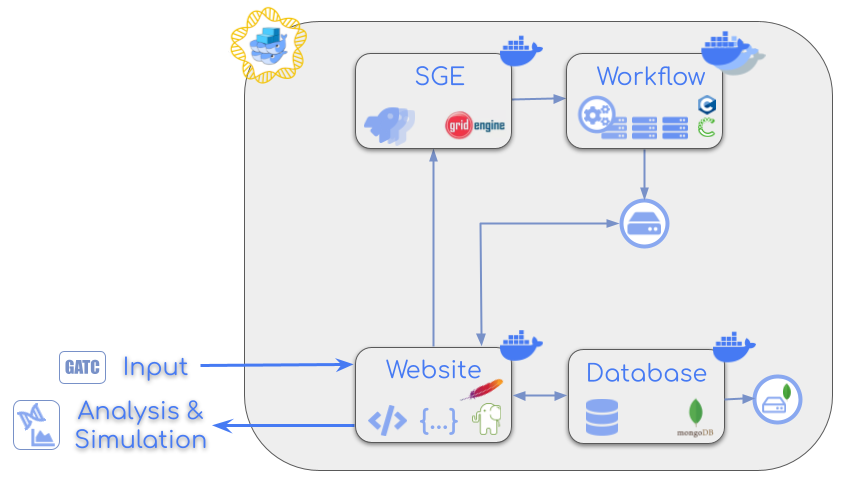
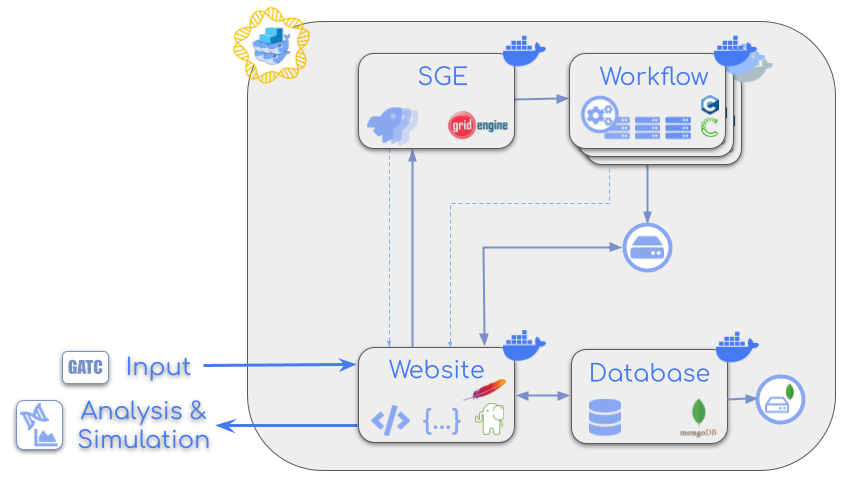
README

diff --git a/README.md b/README.md
@@ -7,6 +7,8 @@ Schema of **CGeNArate container** web services. Each box in the schema is a serv
 
 <div align="center"><img src="schema.png" /></div>
 
+This bunch of **services** aim to show in an intuitive environment the simulation of both **unconstrained** and **constrained** DNA, such as **circular DNA** and **protein-DNA** simulations. The simulations are obtained using [**CGeNArate**](https://academic.oup.com/nar/article/52/12/6791/7685160), a new model for molecular dynamics simulations for **B-DNA** in the context of biotechnological or **chromatin** studies.
+
 ## Services description
 
 ### Apache / Website
@@ -65,7 +67,7 @@ services:
     volumes:
       - ${WEBSITE_DATA_VOLUME_PATH}:/data   # path where the data generated by the website will be stored
       - ${WEBSITE_VOLUME_PATH}:/var/www/html   # path for the website code
-      - ${SCRIPTS_VOLUME_PATH}:/scripts   # path where the scripts used by the website will be stored
+      - "${SCRIPTS_VOLUME_PATH}/MCDNA:/scripts/MCDNA"  # path where the scripts used by the website will be stored
       - ./website/act_qmaster:/var/lib/gridengine/default/common/act_qmaster
       - ${SSH_KEYS_VOLUME_PATH}:/keys
     # networks:
@@ -93,12 +95,14 @@ services:
 
   workflow:
     image: workflow_image   # name of workflow image
+    # platform: linux/amd64
     build:
       context: ./workflow  # folder to search Dockerfile for this image
     # networks:
     #   - dbnet
     volumes:
       - workflow_data:/mnt
+      - workflow_scripts:/app/Scripts
     deploy:
       replicas: ${WORKFLOW_REPLICAS}  # Ensure this service is not deployed by default as it is a one-time task
       resources:
@@ -133,6 +137,7 @@ services:
       - "${SGE_PORT}:${SGE_PORT}"
     volumes:
       - workflow_data:/data
+      - workflow_scripts:/scripts
       - /var/run/docker.sock:/var/run/docker.sock
       - ${SSH_KEYS_VOLUME_PATH}:/keys
     devices:
@@ -213,6 +218,8 @@ services:
 
 volumes:
   workflow_data:
+    external: true
+  workflow_scripts:
     external: true
 
 networks:
@@ -444,8 +451,8 @@ docker run --rm -v workflow_data:/mnt workflow_image ls -la /mnt
 
 #### Execute workflow
 
-Take into account that, for running properly the workflow, a **.sh file** with the **correct format** must be created beforehand in the folder defined in 
-**WEBSITE_DATA_VOLUME_PATH** in the [`.env`](#env-file) file. This template can be taken as an example for creating this launch.sh file:
+Take into account that, for running properly the workflow, a **launch.sh file** with the **correct format** must be created beforehand in the folder defined in 
+**WEBSITE_DATA_VOLUME_PATH** in the [`.env`](#env-file) file. This template can be taken as an example for creating this **launch.sh file**:
 
 ```sh
 #!/bin/csh
@@ -467,7 +474,7 @@ And **inputSequence.txt** is the **input sequence** in text format and it must b
 GATTACATACATACAGATTACATACATACAGATTACATACATACAGATTACATACATACAGATTACATACATACAGATTACATACATACA
 ```
 
-Then, once both files **.sh** and **.txt** are in the same folder in **WEBSITE_DATA_VOLUME_PATH**, the workflow can be launched:
+Then, once both files **launch.sh** and **inputSequence.txt** are in the same folder inside **WEBSITE_DATA_VOLUME_PATH**, the workflow can be launched:
 
 ```sh
 docker compose run --rm workflow sh /mnt/folder/launch.sh
